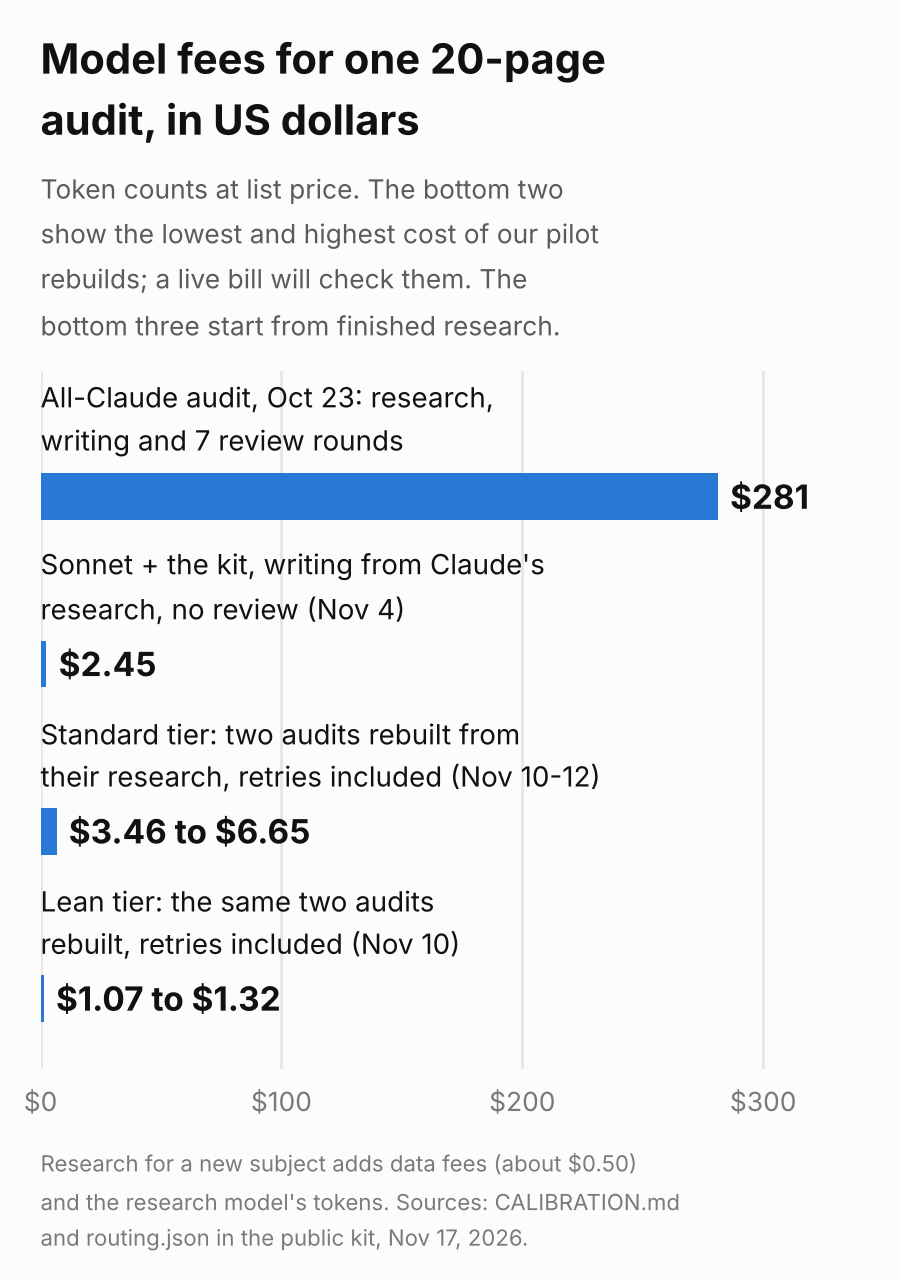
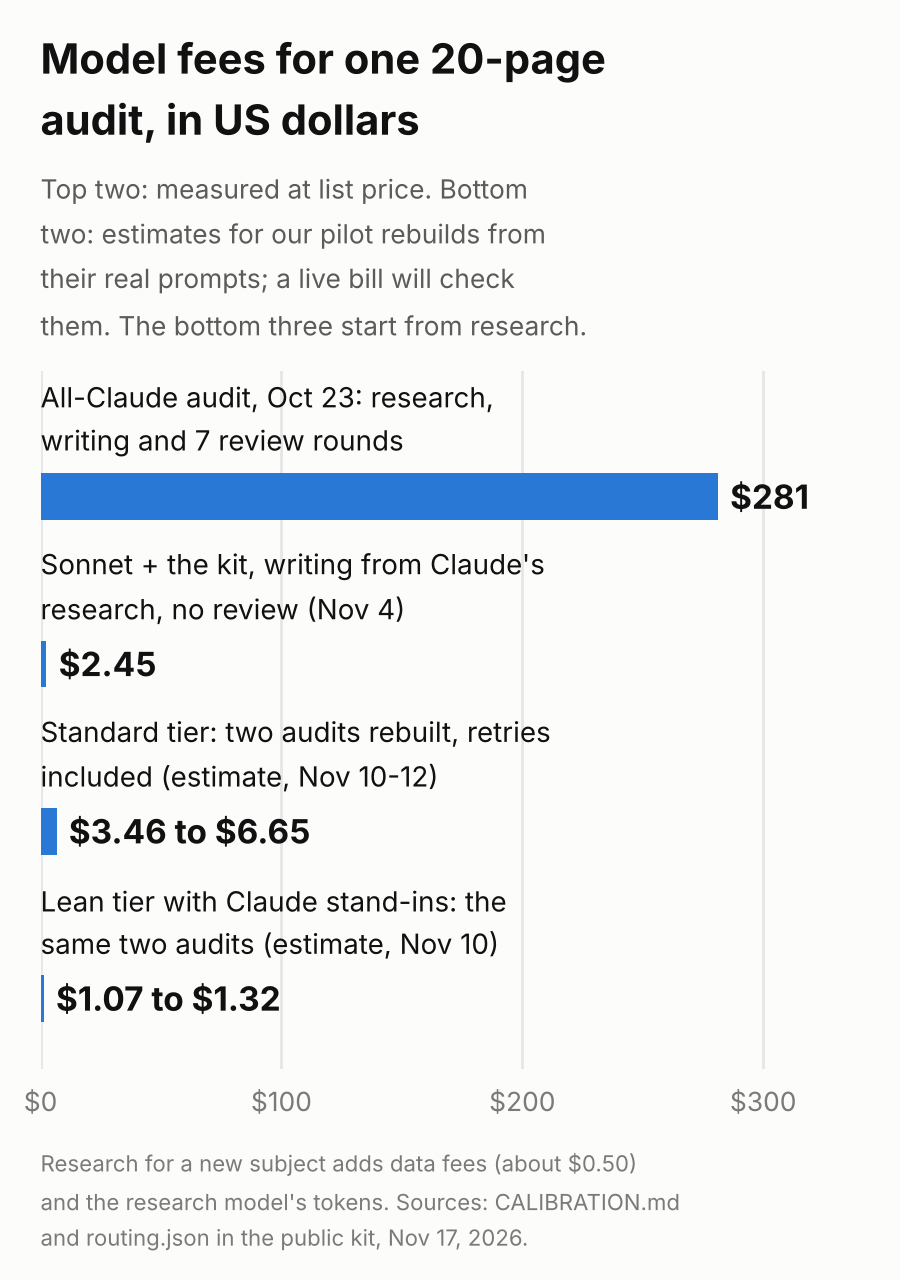
Audit Factory 20: call the pilot's costs estimates; say what "passed" means
An independent review of a206068 (Fable, fresh context) returned FIX:
two S1s and several smaller items. Each was checked against the pilot's
records; all are applied.

- S1, costs: the pilot's figures price each call's real prompt with
  caching but model the reply and thinking at the kit's limits. The
  pilot's subagents thought far longer; at face value, with no caching,
  the six runs come to $4.96 to $25.59. The ledes, chart, table, alt text
  and docs now call $3.46-$6.65 and $1.07-$1.32 estimates, and the face
  value is stated in CALIBRATION.md and the meta article.
- S1, "passed": the kit's own review held five of the six rebuilds, both
  company ones included, and only the last ended READY. "Passed" is now
  "passed the blind comparison", and both pieces say the review is
  stricter.
- The DeepSeek rate in the meta article's rates line was a stale $0.045
  and $0.50; routing.json and its Nov 10 read say $0.30 and $1.20.
- The pilot ran the direct-API lean tier, whose one-pass estimate is
  $0.84, not the one-key tier's $0.99; the section and README now compare
  with $0.84, and the meta article says the two differ only in identity
  and score.
- Opus, not "our best model", wrote the first rebuilds' findings; in
  both person reruns Fable wrote them after two Opus answers failed, and
  the original's grade moved between sets, so the rise from B to A- is
  not credited to the cover fix alone.
- The judges are named as AI models; both had written parts of some
[…]

Changed region(s): [[0.0311, 0.125, 0.6533, 0.2812], [0.0311, 0.5625, 0.6533, 0.625], [0.0311, 0.6875, 0.56, 0.75]]

diff --git a/audit-factory/docs/article/meta-article.html b/audit-factory/docs/article/meta-article.html
@@ -4,22 +4,22 @@
   Slug: /cheaper-models-write-our-audits/   Author: Dennis Yu   Category: meta articles
   Featured image: img/demo-page-01.png (page 1 of the kit's made-up demo audit)
   SEO title: How Cheaper Models Now Write Our 20-Page Audits, With Receipts
-  Meta description: One all-Claude 20-page audit cost $281 in AI fees. Now cheaper models write the pages and Claude reviews: rebuilding two audits cost $1 to $7 each, graded blind. Every receipt, and what is still unproven.
+  Meta description: An all-Claude 20-page audit cost $281 in AI fees. Now cheaper models write the pages and Claude reviews, for an estimated $1 to $7. Every receipt inside.
   Upload ./img/*.png to the media library and replace the src and srcset values (the phone chart
   is the <source> inside <picture>). Add one real photo from the
   media library (Dennis teaching, or the team at work) marked data-lss-real-image="verified".
   Publish this BEFORE the new how-we-audit section, which links here.
-  The chart is drawn by make_chart.py from the kit's cost model and the pilot's measured costs (docs/CALIBRATION.md); re-run it after any change.
+  The chart is drawn by make_chart.py from the kit's cost model and the pilot's cost estimates (docs/CALIBRATION.md); re-run it after any change.
 -->
 <p style="font-style:italic;border-left:4px solid #f28c28;padding:8px 14px;margin:0 0 20px;">Claude (Opus 5.5, working in a Claude Code session) rebuilt our 20-page audit as a kit any model can run, tested it blind, had its code reviewed by separate agents, fixed what broke, published it free on GitHub, and then rebuilt two of our finished audits with it and had them graded blind. This is the work record: what we did, what we got wrong, what it costs, and what is still unproven.</p>
 
-<p><strong>A good audit tells a business owner what is true about their brand and what to do next. Ours were good but expensive. One cost $281 in AI fees, so we could only make a few. Now a cheaper model writes the pages. Plain code checks them. Our best model only reviews the finished text. We rebuilt two of our audits this way. Each cost $1 to $7 in AI fees. Blind judges graded our standard version about as well as the originals. That is cheap enough to run for every client, every month.</strong></p>
+<p><strong>A good audit tells a business owner what is true about their brand and what to do next. Ours were good but expensive. One cost $281 in AI fees, so we could only make a few. Now a cheaper model writes the pages. Plain code checks them. Our best model only reviews the finished text. We rebuilt two of our audits this way. At list prices, each would cost about $1 to $7 in AI fees. Blind AI judges graded our final standard rebuilds about as well as the originals. That is cheap enough to run for every client, every month.</strong></p>
 
-<figure><picture><source media="(max-width: 600px)" srcset="img/cost-per-audit-phone.png" width="900" height="1280"><img src="img/cost-per-audit.png" width="1760" height="920" alt="Bar chart of model fees for one 20-page audit: $281 for the all-Claude audit of Oct 23 (research, writing and seven review rounds); $2.45 for Sonnet writing with the kit from Claude's research, no review; $3.46 to $6.65 on the standard tier and $1.07 to $1.32 on the lean tier when the kit rebuilt two finished audits from their research, retries included."></picture><figcaption>Token counts at list price. The bottom two bars are the lowest and highest cost of our pilot rebuilds; a live bill will check them. The bottom three start from research that is already done.</figcaption></figure>
+<figure><picture><source media="(max-width: 600px)" srcset="img/cost-per-audit-phone.png" width="900" height="1280"><img src="img/cost-per-audit.png" width="1760" height="920" alt="Bar chart of model fees for one 20-page audit: $281 for the all-Claude audit of Oct 23 (research, writing and seven review rounds); $2.45 for Sonnet writing with the kit from Claude's research, no review; estimates of $3.46 to $6.65 on the standard tier and $1.07 to $1.32 on the lean tier (with Claude stand-ins) when the kit rebuilt two finished audits from their research, retries included."></picture><figcaption>The top two bars are measured token counts at list price. The bottom two are the lowest and highest estimates for our pilot rebuilds, from their real prompts, with replies and thinking held to the kit's limits; a live bill will check them. The bottom three start from research that is already done.</figcaption></figure>
 
 <p>Goal: keep the quality of our best audits while cutting the cost enough to make them at volume. Content: the kit, a blind test scored by an independent judge, independent code reviews, a pilot that rebuilt two finished audits and had them graded blind, and every receipt. Who it is for: agencies, AI builders and owners who want the 20-page audit in <a href="https://blitzmetrics.com/how-we-audit/">our audit standard</a> without a frontier-model bill.</p>
 
-<div style="display:flex;flex-wrap:wrap;gap:12px;margin:18px 0;"><div style="flex:1 1 150px;box-sizing:border-box;border:1px solid #d9e2ec;border-radius:10px;padding:14px;"><div style="font-size:28px;font-weight:700;color:#12284a;">$281</div><div style="font-size:14px;color:#3d4b5c;">the all-Claude audit we compared against: research, writing and seven review rounds (Oct 23, measured tokens, list price)</div></div><div style="flex:1 1 150px;box-sizing:border-box;border:1px solid #d9e2ec;border-radius:10px;padding:14px;"><div style="font-size:28px;font-weight:700;color:#12284a;">11 of 14</div><div style="font-size:14px;color:#3d4b5c;">of Claude's insights that an independent judge found in the cheaper model's audit</div></div><div style="flex:1 1 150px;box-sizing:border-box;border:1px solid #d9e2ec;border-radius:10px;padding:14px;"><div style="font-size:28px;font-weight:700;color:#12284a;">$1 to $7</div><div style="font-size:14px;color:#3d4b5c;">model fees per audit when the kit rebuilt two of our finished audits from their research, retries included</div></div><div style="flex:1 1 150px;box-sizing:border-box;border:1px solid #d9e2ec;border-radius:10px;padding:14px;"><div style="font-size:28px;font-weight:700;color:#12284a;">7 problems</div><div style="font-size:14px;color:#3d4b5c;">found by tests and an independent code review before any money was spent, all fixed</div></div></div>
+<div style="display:flex;flex-wrap:wrap;gap:12px;margin:18px 0;"><div style="flex:1 1 150px;box-sizing:border-box;border:1px solid #d9e2ec;border-radius:10px;padding:14px;"><div style="font-size:28px;font-weight:700;color:#12284a;">$281</div><div style="font-size:14px;color:#3d4b5c;">the all-Claude audit we compared against: research, writing and seven review rounds (Oct 23, measured tokens, list price)</div></div><div style="flex:1 1 150px;box-sizing:border-box;border:1px solid #d9e2ec;border-radius:10px;padding:14px;"><div style="font-size:28px;font-weight:700;color:#12284a;">11 of 14</div><div style="font-size:14px;color:#3d4b5c;">of Claude's insights that an independent judge found in the cheaper model's audit</div></div><div style="flex:1 1 150px;box-sizing:border-box;border:1px solid #d9e2ec;border-radius:10px;padding:14px;"><div style="font-size:28px;font-weight:700;color:#12284a;">$1 to $7</div><div style="font-size:14px;color:#3d4b5c;">estimated model fees per audit when the kit rebuilt two of our finished audits, retries included</div></div><div style="flex:1 1 150px;box-sizing:border-box;border:1px solid #d9e2ec;border-radius:10px;padding:14px;"><div style="font-size:28px;font-weight:700;color:#12284a;">7 problems</div><div style="font-size:14px;color:#3d4b5c;">found by tests and an independent code review before any money was spent, all fixed</div></div></div>
 
 <h2 style="border-left:6px solid #0f8b8d;padding-left:12px;">Find what made the expensive audits better</h2>
 <p>We measured finished audits from Claude, Muse, Codex and ChatGPT agents. The ones Dennis graded best carry 460 to 475 words and 95 to 100 specific numbers per page, with evidence on every page. The weaker ones carry 200 to 270 words and 8 to 39 numbers. The gap had four causes, and none of them was "a smarter model":</p>
@@ -64,16 +64,17 @@
 <p>Every call now asks only for providers that do not collect user data, records the charge OpenRouter reports, and never crosses the spending cap. A check compares every model, price and thinking level with OpenRouter's live list, and a dated copy of that list is kept in the kit.</p>
 
 <h2 style="border-left:6px solid #0f8b8d;padding-left:12px;">Rebuild real audits and grade them blind</h2>
-<p>A demo proves the kit runs. It does not prove the audits are good. So we rebuilt two audits we had already made, a company audit and a person audit, from the research behind each one, with the original's conclusions taken out. We ran each on two tiers: standard, where our best model writes the findings and reviews twice, and lean, where a cheaper model writes the findings and our best model reviews once. Two judges that saw none of the work, Claude Fable 5.1 and Claude Opus 5.5, graded each rebuild side by side with its original, on the twelve checks our own review uses and a letter scale we fixed before any grading. A rebuild passed if it had no serious error and graded no more than one letter below its original.</p>
+<p>A demo proves the kit runs. It does not prove the audits are good. So we rebuilt two audits we had already made, a company audit and a person audit, from the research behind each one, with the original's conclusions taken out. We ran each on two tiers: standard, where Opus writes the findings and reviews twice, and lean, where Sonnet writes the findings and Opus reviews once. Two AI judges, Claude Fable and Claude Opus in fresh sessions that saw none of the work, graded each rebuild side by side with its original, on the twelve checks our own review uses and a letter scale we fixed before any grading. Both judge models had written parts of some rebuilds; there, the lower of their two grades counts. A rebuild passed this blind comparison if it had no serious error and graded no more than one letter below its original.</p>
 <ul>
-  <li><strong>The company audit passed on both tiers.</strong> Standard got an A- from one judge and a B+ from the other, lean a B+ from both, and the original a B.</li>
-  <li><strong>The person audit failed on both tiers at first,</strong> each on one serious error that the kit's own review had found but had no round left to fix. On standard, the cover kept a dollar figure that a later fix had changed on an inside page. The cover is now revised after the pages, and the rerun got an A- from both judges. A second fix sends every review finding to whoever wrote the words it faults. After it, the kit's own review passed the audit for the first time, and both judges gave it an A-, the same as the original.</li>
+  <li><strong>The company audit passed the comparison on both tiers.</strong> Standard got an A- from one judge and a B+ from the other, lean a B+ from both, and the original a B.</li>
+  <li><strong>The person audit failed on both tiers at first,</strong> each on one serious error that the kit's own review had found but had no round left to fix. On standard, the cover kept a dollar figure that a later fix had changed on an inside page. The cover is now revised after the pages, and the rerun passed with an A- from both judges. That is not the cover fix alone: in the reruns Fable wrote the findings after Opus failed two checks, and the original's own grade moved between B and A-. A second fix, found in that rerun, sends every review finding to whoever wrote the words it faults. After it, the kit's own review let the person audit through for the first time, and both judges gave it an A-, the same as the original.</li>
   <li><strong>Lean's person audit still fails.</strong> Lean reviews once and has no round after that review. Adding one costs another writing call and maybe a second review, so it is a cost decision, not a bug fix.</li>
-  <li><strong>Our best model's findings found more.</strong> Of the 20 insights in each original, standard found 12 and lean 7 on the company audit, and 17 against 9 on the person audit. Person audits stay on standard.</li>
+  <li><strong>The kit's own review is stricter than the judges.</strong> It held five of the six rebuilds for serious findings, both company rebuilds included. Only the last person rebuild ended ready to send. Every serious error a judge found, the review had found first.</li>
+  <li><strong>Opus's findings found more than Sonnet's.</strong> Of the 20 insights in each original, standard found 12 and lean 7 on the company audit, and 17 against 9 on the person audit. With one subject of each kind, person audits stay on standard.</li>
   <li><strong>The judges move, so we read grades as ranges.</strong> The same original got anything from a B to an A-, depending on which audits it was graded beside.</li>
-  <li><strong>Real rebuilds cost more than our estimate.</strong> Standard rebuilds cost $3.46 to $6.65 and lean ones $1.07 to $1.32, counted from each call's tokens at list price. When the findings failed a check, they were written again, and on the person audit a bigger model took over. Our one-pass estimate never counted that.</li>
+  <li><strong>Real rebuilds would cost more than our one-pass estimate.</strong> From their real prompts, with replies and thinking held to the kit's limits, standard rebuilds come to $3.46 to $6.65 and lean ones to $1.07 to $1.32 at list prices. When the findings failed a check, they were written again, and on the person audit a bigger model took over. Our one-pass estimate never counted that.</li>
 </ul>
-<p>For the pilot, Claude's Haiku and Sonnet stood in for the lean tier's DeepSeek and GPT models, so lean's own drafting is not measured yet. Every grade, cost and finding is in the kit's <a href="https://github.com/dennisyu/local-service-spotlight-skills/blob/main/audit-factory/docs/CALIBRATION.md">calibration file</a>.</p>
+<p>For the pilot, Claude's Haiku and Sonnet stood in for the lean tier's DeepSeek and GPT models, so lean's own models are not measured yet. The pilot ran the lean tier that calls each provider directly; the one-key lean tier in the table below differs only in using Sonnet for its identity and score steps. Every grade, cost and finding is in the kit's <a href="https://github.com/dennisyu/local-service-spotlight-skills/blob/main/audit-factory/docs/CALIBRATION.md">calibration file</a>.</p>
 
 <h2 style="border-left:6px solid #0f8b8d;padding-left:12px;">Count what it costs</h2>
 <table style="width:100%;border-collapse:collapse;font-size:15px;">
@@ -84,11 +85,11 @@
     <tr><td style="padding:8px;">Standard tier through the API, typical / worst case</td><td style="padding:8px;">Sonnet 5.5, Opus 5.5, Haiku 5.5</td><td style="padding:8px;text-align:right;">$1.61 / $3.07</td><td style="padding:8px;">estimate: a real audit's prompt and reply sizes at list price, thinking included</td></tr>
     <tr style="background:#f4f7fa;"><td style="padding:8px;">One OpenRouter key, lean tier, typical / worst case</td><td style="padding:8px;">Sonnet 5.5, DeepSeek V4.1 Flash, Opus 5.5</td><td style="padding:8px;text-align:right;">$0.99 / $1.59</td><td style="padding:8px;">estimate: same sizes at OpenRouter's prices, read Nov 10, 2026</td></tr>
     <tr><td style="padding:8px;">One OpenRouter key, budget tier (experimental, no Claude), typical / worst case</td><td style="padding:8px;">Grok 4.7, DeepSeek V4.1 Flash, GPT-6.1 Sol</td><td style="padding:8px;text-align:right;">$0.66 / $1.04</td><td style="padding:8px;">estimate; quality not measured</td></tr>
-    <tr style="background:#f4f7fa;"><td style="padding:8px;">Pilot: standard tier, two finished audits rebuilt from their research, retries included</td><td style="padding:8px;">Opus 5.5, Sonnet 5.5, Haiku 5.5; Fable 5.1 when the findings failed twice</td><td style="padding:8px;text-align:right;">$3.46 to $6.65</td><td style="padding:8px;">each call's tokens at list price with the kit's thinking limits, Nov 10-12, 2026</td></tr>
+    <tr style="background:#f4f7fa;"><td style="padding:8px;">Pilot: standard tier, two finished audits rebuilt from their research, retries included</td><td style="padding:8px;">Opus 5.5, Sonnet 5.5, Haiku 5.5; Fable when the findings failed twice</td><td style="padding:8px;text-align:right;">$3.46 to $6.65</td><td style="padding:8px;">estimate: each call's real prompt at list price with caching, and its reply and thinking at the kit's limits; Nov 10-12, 2026</td></tr>
     <tr><td style="padding:8px;">Pilot: lean tier, the same two audits</td><td style="padding:8px;">Sonnet 5.5 and Opus 5.5; Haiku 5.5 and Sonnet 5.5 standing in for DeepSeek and GPT</td><td style="padding:8px;text-align:right;">$1.07 to $1.32</td><td style="padding:8px;">same basis; $0.98 to $1.26 at the lean tier's own prices</td></tr>
   </tbody>
 </table>
-<p>Rates per million tokens in and out: Opus 5.5 $4 and $20, Sonnet 5.5 $2 and $10, DeepSeek V4.1 Flash $0.045 and $0.50; thinking is billed as output. The estimates start from finished research and include one review; the worst case adds three fix rounds, every review pass, the most thinking each call allows, and retries. The pilot's rebuilds cost more: every standard one passed the $3.07 worst case, because findings that failed a check were written again, on the person audit by a bigger model, and the worst case allows only a quarter more for retries. On the lean tier, the one Opus review is about half the cost. The blind test cost more than the estimates because it was an interactive session that re-read its files, about 8 million tokens' worth; the kit's runner sends each step's prompt once. Research for a new subject adds data fees (about $0.50) and the research model's tokens, and OpenRouter charges a fee when you buy credits (<a href="https://openrouter.ai/docs/faq#pricing-and-fees">OpenRouter's pricing FAQ</a>).</p>
+<p>Rates per million tokens in and out: Opus 5.5 $4 and $20, Sonnet 5.5 $2 and $10, DeepSeek V4.1 Flash $0.30 and $1.20; thinking is billed as output. The estimates start from finished research and include one review; the worst case adds three fix rounds, every review pass, the most thinking each call allows, and retries. The pilot's rebuilds come to more: every standard one passed the $3.07 worst case, because findings that failed a check were written again, on the person audit by a bigger model, and the worst case allows only a quarter more for retries. Priced at face value instead, with every token the pilot's chat sessions used and no caching, the same calls come to $4.96 to $25.59; the kit's runner sets a thinking budget for each call. On the lean tier, the one Opus review is about half the cost. The blind test cost more than the estimates because it was an interactive session that re-read its files, about 8 million tokens' worth; the kit's runner sends each step's prompt once. Research for a new subject adds data fees (about $0.50) and the research model's tokens, and OpenRouter charges a fee when you buy credits (<a href="https://openrouter.ai/docs/faq#pricing-and-fees">OpenRouter's pricing FAQ</a>).</p>
 
 <div style="background:#12284a;color:#ffffff;border-radius:12px;padding:20px 22px;margin:22px 0;"><p style="color:#ffffff;font-weight:700;letter-spacing:0.04em;margin:0 0 8px;">THE DELIVERABLE</p><p style="color:#ffffff;margin:0 0 14px;">The 20-page audit kit, free and open on GitHub: stage cards any model can follow, the renderer, the 47 checks, the cost model, the OpenRouter path and the demo audit.</p><p style="margin:0;"><a href="https://github.com/dennisyu/local-service-spotlight-skills/tree/main/audit-factory" style="display:inline-block;background:#c8442f;color:#ffffff;padding:12px 20px;border-radius:8px;font-weight:700;text-decoration:none;">Get the kit on GitHub</a></p></div>
 
@@ -101,7 +102,7 @@ python -m factory20 init runs/demo --from-demo
 python -m factory20 run runs/demo --tier openrouter-lean --max-usd 3</code></pre>
 
 <h2 style="border-left:6px solid #0f8b8d;padding-left:12px;">Check what is proven and what is not</h2>
-<div style="border:1px solid #0f8b8d;background:#eef8f8;border-radius:10px;padding:14px 18px;"><p style="margin:0 0 8px;"><strong>Verified:</strong> the kit's full history and its passing automated checks (102 tests on the kit, 355 across the repository) are public in <a href="https://github.com/dennisyu/local-service-spotlight-skills/pull/108">pull request #108</a> on GitHub; the judge's scores, the code reviews' findings, the pilot's grades and costs, and every measurement are in the kit's <a href="https://github.com/dennisyu/local-service-spotlight-skills/blob/main/audit-factory/docs/CALIBRATION.md">calibration file</a>; every OpenRouter model, price and thinking level was checked against OpenRouter's live list on Nov 4, 2026, and the DeepSeek price again on Nov 10, when it changed.</p><p style="margin:0;"><strong>Not proven yet:</strong> a live OpenRouter bill (the first run, on the public demo, is next); research for a new subject at low cost (the collectors are the next build); the lean tier with its own drafting model (the pilot used Claude stand-ins); a home-service audit (the pilot's third rebuild, still to come); and the quality of the experimental no-Claude tier.</p></div>
+<div style="border:1px solid #0f8b8d;background:#eef8f8;border-radius:10px;padding:14px 18px;"><p style="margin:0 0 8px;"><strong>Verified:</strong> the kit's full history and its passing automated checks (102 tests on the kit, 355 across the repository) are public in <a href="https://github.com/dennisyu/local-service-spotlight-skills/pull/108">pull request #108</a> on GitHub; the judge's scores, the code reviews' findings, the pilot's grades and cost estimates, and every measurement are in the kit's <a href="https://github.com/dennisyu/local-service-spotlight-skills/blob/main/audit-factory/docs/CALIBRATION.md">calibration file</a>; every OpenRouter model, price and thinking level was checked against OpenRouter's live list on Nov 4, 2026, and the DeepSeek price again on Nov 10, when it changed.</p><p style="margin:0;"><strong>Not proven yet:</strong> a live OpenRouter bill (the first run, on the public demo, is next); research for a new subject at low cost (the collectors are the next build); the lean tier with its own drafting model (the pilot used Claude stand-ins); a home-service audit (the pilot's third rebuild, still to come); and the quality of the experimental no-Claude tier.</p></div>
 
 <h2 style="border-left:6px solid #0f8b8d;padding-left:12px;">Read the work record</h2>
 <table style="width:100%;border-collapse:collapse;font-size:15px;">

diff --git a/audit-factory/docs/article/how-we-audit-section.html b/audit-factory/docs/article/how-we-audit-section.html
@@ -3,15 +3,15 @@
   Insert as a new H2 section directly AFTER "How do you run a business strategy audit with your agent?"
   and BEFORE "Several exams; no blended score". Upload both images in ./img/ to the media library and
   replace the src and srcset values (the phone chart is the <source> inside <picture>). Keep every other section of the live page as it is.
-  The chart is drawn by make_chart.py from the kit's cost model and the pilot's measured costs (docs/CALIBRATION.md); re-run it after any change.
+  The chart is drawn by make_chart.py from the kit's cost model and the pilot's cost estimates (docs/CALIBRATION.md); re-run it after any change.
 -->
 <h2>Have cheaper models write the 20-page report</h2>
 
-<p><strong>One of our first 20-page audits cost $281 in AI fees. Our most expensive model did every step. Now a cheaper model writes the pages. Code draws and checks them. The expensive model only reviews the finished text. We rebuilt two of our audits this way from their research. Each cost $1 to $7 in AI fees. Blind judges graded our standard version about as well as the originals. That is cheap enough to run an audit every month, not once a year.</strong></p>
+<p><strong>One of our first 20-page audits cost $281 in AI fees. Our most expensive model did every step. Now a cheaper model writes the pages. Code draws and checks them. The expensive model only reviews the finished text. We rebuilt two of our audits this way from their research. At list prices, each would cost about $1 to $7 in AI fees. Blind AI judges graded our final standard rebuilds about as well as the originals. That is cheap enough to run an audit every month, not once a year.</strong></p>
 
 <figure>
-  <picture><source media="(max-width: 600px)" srcset="img/cost-per-audit-phone.png" width="900" height="1280"><img src="img/cost-per-audit.png" width="1760" height="920" alt="Bar chart of model fees for one 20-page audit: $281 for the all-Claude audit of Oct 23 (research, writing and seven review rounds); $2.45 for Sonnet writing with the kit from Claude's research, no review; $3.46 to $6.65 on the standard tier and $1.07 to $1.32 on the lean tier when the kit rebuilt two finished audits from their research, retries included."></picture>
-  <figcaption>Model fees for one 20-page audit, as token counts at list price. The bottom two bars are the lowest and highest cost of our pilot rebuilds; a live bill will check them. The bottom three start from research that is already done.</figcaption>
+  <picture><source media="(max-width: 600px)" srcset="img/cost-per-audit-phone.png" width="900" height="1280"><img src="img/cost-per-audit.png" width="1760" height="920" alt="Bar chart of model fees for one 20-page audit: $281 for the all-Claude audit of Oct 23 (research, writing and seven review rounds); $2.45 for Sonnet writing with the kit from Claude's research, no review; estimates of $3.46 to $6.65 on the standard tier and $1.07 to $1.32 on the lean tier (with Claude stand-ins) when the kit rebuilt two finished audits from their research, retries included."></picture>
+  <figcaption>Model fees for one 20-page audit at list price. The top two are measured token counts. The bottom two are the lowest and highest estimates for our pilot rebuilds, from their real prompts, with replies and thinking held to the kit's limits; a live bill will check them. The bottom three start from research that is already done.</figcaption>
 </figure>
 
 <table>
@@ -19,24 +19,24 @@
   <tbody>
     <tr><td>All Claude, Oct 23, 2026: research, writing and seven review rounds</td><td>$281</td><td>measured tokens at list price</td></tr>
     <tr><td>Claude Sonnet with the kit, writing from Claude's research, no review (Nov 4)</td><td>$2.45</td><td>measured tokens at list price</td></tr>
-    <tr><td>Standard tier: two finished audits rebuilt from their research, retries included (Nov 10-12)</td><td>$3.46 to $6.65</td><td>each call's tokens at list price</td></tr>
-    <tr><td>Lean tier: the same two audits, with Claude standing in for its two cheapest models</td><td>$1.07 to $1.32</td><td>each call's tokens at list price</td></tr>
+    <tr><td>Standard tier: two finished audits rebuilt from their research, retries included (Nov 10-12)</td><td>$3.46 to $6.65</td><td>estimate from each call's real prompt, with replies and thinking held to the kit's limits</td></tr>
+    <tr><td>Lean tier: the same two audits, with Claude standing in for its two cheapest models</td><td>$1.07 to $1.32</td><td>same estimate</td></tr>
   </tbody>
 </table>
-<p>Our estimate for one clean pass is lower: about $1.61 on the standard tier and $0.99 on one OpenRouter key. The rebuilds cost more because they needed retries, fix rounds and, on standard, a second review.</p>
+<p>Our estimate for one clean pass is lower: about $1.61 on the standard tier and $0.84 on the lean tier. The rebuilds came to more because they needed retries, fix rounds and, on standard, a second review.</p>
 
 <h3>What changed</h3>
 <ul>
   <li><strong>Models write words; code draws the pages.</strong> Every model fills the same 20-page template, so a cheaper model never has to invent the design.</li>
   <li><strong>47 automatic checks run on every draft.</strong> They look for evidence on every page, scores that add up, a picture on every page, nothing from the do-not-print list, and the name and face of the person who prepared the audit. Each failure tells the writer exactly what to fix.</li>
-  <li><strong>The expensive model reviews once, with fresh eyes.</strong> It sees only the finished files, never the drafting. A serious finding goes back for a fix before the audit can pass.</li>
+  <li><strong>The expensive model reviews with fresh eyes.</strong> It reviews twice on the standard tier and once on lean, and it sees only the finished files, never the drafting. A serious finding holds the audit until it is fixed.</li>
   <li><strong>Every action names who does it.</strong> Anything that touches a client's website, profiles or listings waits for a named person's yes.</li>
 </ul>
 
 <h3>What we tested</h3>
 <p>We gave Claude Sonnet the research behind one of our October company audits, with our own conclusions taken out, and let it build all 20 pages with the kit. A separate reviewer that built none of the audits scored every page against the original audit's 14 insights. Sonnet found 11, partly found 1 and missed 2, for $2.45 in measured model fees. Our first try at this test was not fully blind: some of our guidance was still inside the research file. We removed it and ran the test again. The 11 of 14 is from the clean run.</p>
 <p>Before spending anything on the one-key path, we tested it against a stand-in for OpenRouter's API, and a separate agent reviewed the code. Together they found seven problems, all fixed. The biggest: Claude's Sonnet and Opus models think before they answer, that thinking is billed, and our first estimate left it out. Counting it raised the estimates to the numbers above.</p>
-<p>Then we rebuilt two finished audits, a company audit and a person audit, from their research with the original conclusions taken out. Two judges that saw none of the work graded each rebuild blind, side by side with its original. The standard tier passed on both: the company audit at once, and the person audit after we fixed two problems the first rebuild showed. In the last rebuild both judges gave it an A-, the same as its original. The cheaper lean tier passed the company audit and failed the person audit, on one serious error that its single review found but had no round to fix. Our best model's findings recovered more of the originals' insights, 12 and 17 of 20 against lean's 7 and 9, so person audits stay on the standard tier.</p>
+<p>Then we rebuilt two finished audits, a company audit and a person audit, from their research with the original conclusions taken out. Two AI judges, Claude models in fresh sessions that saw none of the work, graded each rebuild blind, side by side with its original. The standard tier passed that comparison on both: the company audit at once, and the person audit after one fix. A second fix, found in that rerun, got the person audit past the kit's own review too, and both judges gave it an A-, the same as its original. The cheaper lean tier passed the company audit and failed the person audit, on one serious error that its single review found but had no round to fix. The kit's own review is stricter than the judges: it held five of the six rebuilds for serious findings. Opus's findings recovered more of the originals' insights than Sonnet's, 12 and 17 of 20 against 7 and 9, so person audits stay on the standard tier.</p>
 
 <h3>Run it yourself</h3>
 <p>The kit is free on GitHub: <a href="https://github.com/dennisyu/local-service-spotlight-skills/tree/main/audit-factory">our 20-page audit kit (Audit Factory 20)</a>. It builds a made-up demo business with no keys at all. For a live run, one OpenRouter key reaches every model the kit uses, Claude included. Create a key at <a href="https://openrouter.ai/">openrouter.ai</a> and keep it in your own secret store, never in a file.</p>
@@ -48,8 +48,8 @@ python -m factory20 run runs/demo --tier openrouter-lean --max-usd 3</code></pre
 
 <h3>What is not proven yet</h3>
 <ul>
-  <li><strong>No live OpenRouter bill yet.</strong> The one-key tiers are tested against a stand-in for OpenRouter's API, not the real one. The first live run is next, and its bill will check the costs above.</li>
-  <li><strong>The lean tier's own drafting model is not tested yet.</strong> In the pilot, Claude models stood in for its DeepSeek and GPT models.</li>
+  <li><strong>No live bill yet.</strong> The pilot's costs above are estimates from real prompts, and the one-key tiers are tested only against a stand-in for OpenRouter's API. The first live run is next, and its bill will check them.</li>
+  <li><strong>The lean tier's own models are not tested yet.</strong> In the pilot, Claude's Haiku and Sonnet stood in for its DeepSeek and GPT models.</li>
   <li><strong>No home-service audit has been rebuilt yet.</strong> It is the pilot's third subject.</li>
   <li><strong>Research for a new subject is not cheap yet.</strong> Until the code that collects sources is built, the agent running the audit does the research in its own session.</li>
   <li><strong>The review reads the text, not the pages.</strong> The expensive model checks the finished text, the evidence and the results of the checks. It does not see the page images yet, so a person still looks at the photos and the layout.</li>

diff --git a/audit-factory/docs/article/make_chart.py b/audit-factory/docs/article/make_chart.py
@@ -5,10 +5,11 @@
 Writes two shapes of the same chart: img/cost-per-audit.png (wide, for desktop) and
 img/cost-per-audit-phone.png (tall, with bigger type, for screens under 600px; the article
 picks it with <picture>). The all-Claude reference comes from factory20.cost, the same
-function `python -m factory20 cost` prints. The blind test's $2.45 and the pilot's two cost
-ranges are session costs the cost model does not hold; they are copied from the blind-test
-table and the pilot table in docs/CALIBRATION.md. The pilot ranges replaced the cost model's
-one-pass estimates (Nov 17, 2026): every standard rebuild cost more than even its worst case.
+function `python -m factory20 cost` prints. The blind test's $2.45 (measured) and the pilot's
+two cost ranges (estimated from the rebuilds' real prompts, replies and thinking at the kit's
+limits) are figures the cost model does not hold; they are copied from the blind-test table and
+the pilot table in docs/CALIBRATION.md. The pilot ranges replaced the cost model's one-pass
+estimates (Nov 17, 2026): every standard rebuild came to more than even its worst case.
 """
 from __future__ import annotations
 
@@ -30,7 +31,7 @@ from factory20 import cost as K  # noqa: E402
 
 BLIND_TEST_USD = 2.45        # docs/CALIBRATION.md, "Blind tests": Sonnet 5.5 + kit, clean run
 PILOT_STANDARD_USD = (3.46, 6.65)   # docs/CALIBRATION.md, "The pilot": the four standard rebuilds
-PILOT_LEAN_USD = (1.07, 1.32)       # the same table: the two lean rebuilds, at their stand-ins' prices
+PILOT_LEAN_USD = (1.07, 1.32)       # the same table: the two lean rebuilds, at their Claude stand-ins' prices
 SURFACE, BAR, INK, MUTED, FAINT, GRID = "#fcfcfb", "#2a78d6", "#111111", "#5b5b5b", "#7a7a7a", "#e6e6e6"
 TITLE = "Model fees for one 20-page audit, in US dollars"
 SOURCES = "Sources: audit-factory/docs/CALIBRATION.md and config/routing.json in the public kit, Nov 17, 2026."
@@ -42,9 +43,9 @@ def numbers() -> list[dict]:
     return [
         {"label": "All-Claude audit, Oct 23: research,\nwriting and 7 review rounds", "usd": ref},
         {"label": "Sonnet + the kit, writing from Claude's\nresearch, no review (Nov 4)", "usd": BLIND_TEST_USD},
-        {"label": "Standard tier: two audits rebuilt from\ntheir research, retries included (Nov 10-12)",
+        {"label": "Standard tier: two audits rebuilt, retries\nincluded (estimate, Nov 10-12)",
          "usd": PILOT_STANDARD_USD[1], "low": PILOT_STANDARD_USD[0]},
-        {"label": "Lean tier: the same two audits\nrebuilt, retries included (Nov 10)",
+        {"label": "Lean tier with Claude stand-ins: the\nsame two audits (estimate, Nov 10)",
          "usd": PILOT_LEAN_USD[1], "low": PILOT_LEAN_USD[0]},
     ]
 
@@ -86,8 +87,8 @@ def draw_wide(rows: list[dict], out: pathlib.Path) -> None:
     _frame(ax, 300, 50, 10)
     fig.text(0.015, 0.955, TITLE, fontsize=16.5, fontweight="bold", color=INK, va="top")
     fig.text(0.015, 0.885,
-             "Token counts at list price. The bottom two show the lowest and highest cost of our pilot rebuilds, with\n"
-             "the kit's thinking limits; a live bill will check them. The bottom three start from finished research.",
+             "Top two: measured token counts at list price. Bottom two: the lowest and highest estimates for our pilot\n"
+             "rebuilds, from real prompts with replies held to the kit's limits. The bottom three start from research.",
              fontsize=10.5, color=MUTED, va="top", linespacing=1.45)
     fig.text(0.015, 0.098,
              "Research for a new subject adds data fees (about $0.50) and the research model's tokens. "
@@ -113,10 +114,10 @@ def draw_phone(rows: list[dict], out: pathlib.Path) -> None:
     fig.text(0.045, 0.975, "Model fees for one 20-page\naudit, in US dollars", fontsize=15, fontweight="bold",
              color=INK, va="top", linespacing=1.2)
     fig.text(0.045, 0.868,
-             "Token counts at list price. The bottom two\n"
-             "show the lowest and highest cost of our pilot\n"
-             "rebuilds; a live bill will check them. The\n"
-             "bottom three start from finished research.",
+             "Top two: measured at list price. Bottom\n"
+             "two: estimates for our pilot rebuilds from\n"
+             "their real prompts; a live bill will check\n"
+             "them. The bottom three start from research.",
              fontsize=9.5, color=MUTED, va="top", linespacing=1.4)
     fig.text(0.045, 0.105,
              "Research for a new subject adds data fees (about $0.50)\n"

diff --git a/audit-factory/docs/CALIBRATION.md b/audit-factory/docs/CALIBRATION.md
@@ -131,12 +131,15 @@ providers: Haiku for DeepSeek V4.1 Flash (pages, actions and fixes) and Sonnet f
 (identity and score). Lean's findings (Sonnet) and review (Opus) are its own. Another fresh agent,
 which saw none of the work, graded each rebuild
 against its original on the twelve review checks, with a letter scale fixed before any grading:
-Fable 5.1 as the official grader and Opus 5.5 as a cross-check. Where both models wrote text that
+Fable as the official grader and Opus 5.5 as a cross-check (the protocol names Fable 5.1; where
+the log records which version answered the subagent alias, it was Fable 5.2). Where both models wrote text that
 stayed in the audit, the lower letter counts, and so does any S0 or S1 that either grader finds and
 the ledger supports. A rebuild passes with no S0 or S1 and no more than one letter below its
-original. Costs are at Nov 10 list prices with the kit's effort settings and caching, worked out
-from each call's tokens; they are not a bill. Lean's are at its stand-ins' prices; the same tokens
-at its own models' prices come to $0.98 and $1.26.
+original. Costs are estimates, not a bill: each call's measured prompt at Nov 10 list prices with
+the kit's prompt caching, plus its reply and the thinking the kit allows at the stage's effort. The
+pilot's subagents thought far longer than that; at face value, with every token they used and no
+caching, the six runs come to $4.96 to $25.59. Lean's costs are at its stand-ins' prices; at its
+own models' prices they come to $0.98 and $1.26.
 
 | rebuild | kit | grade, Fable / Opus | original in the same set | grader S1s | key insights found of 20 (partial) | new supported | cost | kit's verdict | pass rule |
 |---|---|---|---|---|---|---|---|---|---|
@@ -155,7 +158,9 @@ counts them.
 **What failed, and what fixed it.** Each failing person rebuild kept one S1 that the kit's own last
 review had found: the standard tier's second review is its last, and lean has no fix after its one
 review. The standard failure, a cover that kept a figure the page fix had changed, is fixed by
-revising the cover after the pages it summarizes, and the first rerun passed. The kit still held that
+revising the cover after the pages it summarizes, and the first rerun passed. Its rise from B to
+A- is not that fix alone: in both reruns Fable wrote the findings after two Opus answers failed
+their checks, and the original itself moved between B and A- across sets. The kit still held that
 rerun on two S1s from its second review, which both graders rated S2, because each finding had reached
 a writer that did not own the words it faulted. Item 15 sends each review finding to the writer of
 those words, and the second rerun ended READY. The lean failure is not fixed: a fix round after
@@ -177,9 +182,11 @@ pass rule is about that size, so report a grade as a range.
 **What it answers.** The question from the Nov 4 blind test was whether Opus findings earn twice the
 price. Standard's Opus findings found more of each original's insights than lean's Sonnet findings, 12
 against 7 on the company audit and 17 against 9 on the person audit, and the lean person rebuild
-failed. Standard stays the default for person audits; lean passed the company audit. **What it does
-not show:** a home-service subject (planned, still owed), lean with its own drafting model (Haiku
-stood in for DeepSeek), research from a cheap harvest (both ledgers came from frontier research), a
+failed. On one subject of each kind, standard stays the default for person audits; lean passed the
+company audit. Passing here is the blind comparison: the kit's own review held five of the six
+rebuilds, and only the last ended READY. **What it does not show:** a home-service subject
+(planned, still owed), lean with its own models (Haiku stood in for DeepSeek, Sonnet for GPT-6.1
+Terra), research from a cheap harvest (both ledgers came from frontier research), a
 live OpenRouter bill, and costs at the one-pass estimates in the README: real rebuilds cost $3.46 to
 $6.65 on standard and $1.07 to $1.32 on lean, because they needed retries, fix rounds and a second
 review. Every standard rebuild cost more than the cost model's worst case for one audit ($3.07),

diff --git a/audit-factory/README.md b/audit-factory/README.md
@@ -10,10 +10,11 @@ in code, so any model fills in the same proven template and is told exactly what
 Standard tier: **about $5 per audit** in API fees by the conservative planning estimate (stage
 budgets, research included). Counted from the prompts and replies of a real 20-page audit, one
 pass from an existing evidence ledger comes to about **$1.61 on standard and $0.99 on the
-one-key OpenRouter tier** — estimates until the first live bill. Worked out the same way, the pilot's
-rebuilds cost $3.46 to $6.65 on standard and $1.07 to $1.32 on lean (Claude standing in for lean's
-DeepSeek and GPT models), because real runs needed retries, fix rounds and a second review
-(docs/CALIBRATION.md).
+one-key OpenRouter tier** — estimates until the first live bill. Estimated from their real prompts
+with replies held to the kit's limits, the pilot's rebuilds come to $3.46 to $6.65 on standard
+and $1.07 to $1.32 on `lean` (one pass: $1.61 and $0.84; in the pilot Claude stood in for lean's
+DeepSeek and GPT models), because real runs needed retries, fix rounds and, on standard, a second
+review (docs/CALIBRATION.md).
 
 ## Why Claude's audits were better (and why that is fixable)
 
@@ -257,7 +258,7 @@ because it carries no time zone.
 | `schema/audit.schema.json` | the `audit.json` contract |
 | `fixtures/demo/` | a complete SYNTHETIC 20-page exemplar (every fact invented) |
 | `docs/CALIBRATION.md` | the measurements behind every threshold, the blind tests, and the OpenRouter path's tests and code review |
-| `docs/article/` | the public write-up: the How We Audit section, the meta article, their images, `make_chart.py` (draws the cost chart from the cost model and the pilot's measured costs) and `PUBLISH.md` (order, fields, link audit and checks for publishing it) |
+| `docs/article/` | the public write-up: the How We Audit section, the meta article, their images, `make_chart.py` (draws the cost chart from the cost model and the pilot's cost estimates) and `PUBLISH.md` (order, fields, link audit and checks for publishing it) |
 | `../tests/test_audit_factory.py` | 107 tests: every gate has a mutation that trips it (one test fails when a new gate has none) |
 | `../tests/test_audit_factory_openrouter.py` | 39 tests: the OpenRouter path against a local stand-in for its API, no key, no spend; the cap test's stand-in charges the most a provider could; the price check takes a one-provider headline as current only when three providers that are up charge our price, and dates what it saves in UTC |
 | `../tests/test_audit_factory_bundle.py` | 20 tests: the house-gate bundle — what each mode holds on, byte changes caught, nothing passed by filling fields |

diff --git a/audit-factory/docs/article/PUBLISH.md b/audit-factory/docs/article/PUBLISH.md
@@ -5,8 +5,9 @@ commit you were handed. Publishing through the site's normal edit path is the pu
 nothing here needs a person to copy text by hand.
 
 **Changed Nov 17, 2026:** the pilot's results (two finished audits rebuilt and graded blind) replaced
-the one-pass cost estimates in both pieces and in both charts. Upload the redrawn chart images;
-copies uploaded before Nov 17 show the old estimates.
+the one-pass cost estimates in both ledes and both charts; the meta article's cost table keeps
+them beside the pilot's. Upload the redrawn chart images; copies uploaded before Nov 17 show the
+old estimates.
 
 ## 1. The meta article (publish first; the section links to it)
 
@@ -17,7 +18,7 @@ copies uploaded before Nov 17 show the old estimates.
 | Slug | `/cheaper-models-write-our-audits/` |
 | Author · category | Dennis Yu · meta articles |
 | SEO title | How Cheaper Models Now Write Our 20-Page Audits, With Receipts |
-| Meta description | One all-Claude 20-page audit cost $281 in AI fees. Now cheaper models write the pages and Claude reviews: rebuilding two audits cost $1 to $7 each, graded blind. Every receipt, and what is still unproven. |
+| Meta description | An all-Claude 20-page audit cost $281 in AI fees. Now cheaper models write the pages and Claude reviews, for an estimated $1 to $7. Every receipt inside. |
 | Featured image | `img/demo-page-01.png` (page 1 of the kit's made-up demo audit) |
 | Real photo | one approved photo from the media library (Dennis teaching, or the team at work), marked `data-lss-real-image="verified"`; the page has no other photograph |
 
@@ -35,7 +36,7 @@ copies uploaded before Nov 17 show the old estimates.
 Upload all four from `img/` and replace the `src` and `srcset` values:
 `cost-per-audit.png` (1760×920, desktop chart), `cost-per-audit-phone.png` (900×1280, the
 `<source>` inside `<picture>` for screens under 600px), `demo-page-01.png`, `demo-page-02.png`.
-Both charts are drawn by `make_chart.py` from the kit's cost model and the pilot's measured costs;
+Both charts are drawn by `make_chart.py` from the kit's cost model and the pilot's cost estimates;
 if a number changes, re-run it rather than editing a picture.
 
 ## Link audit
